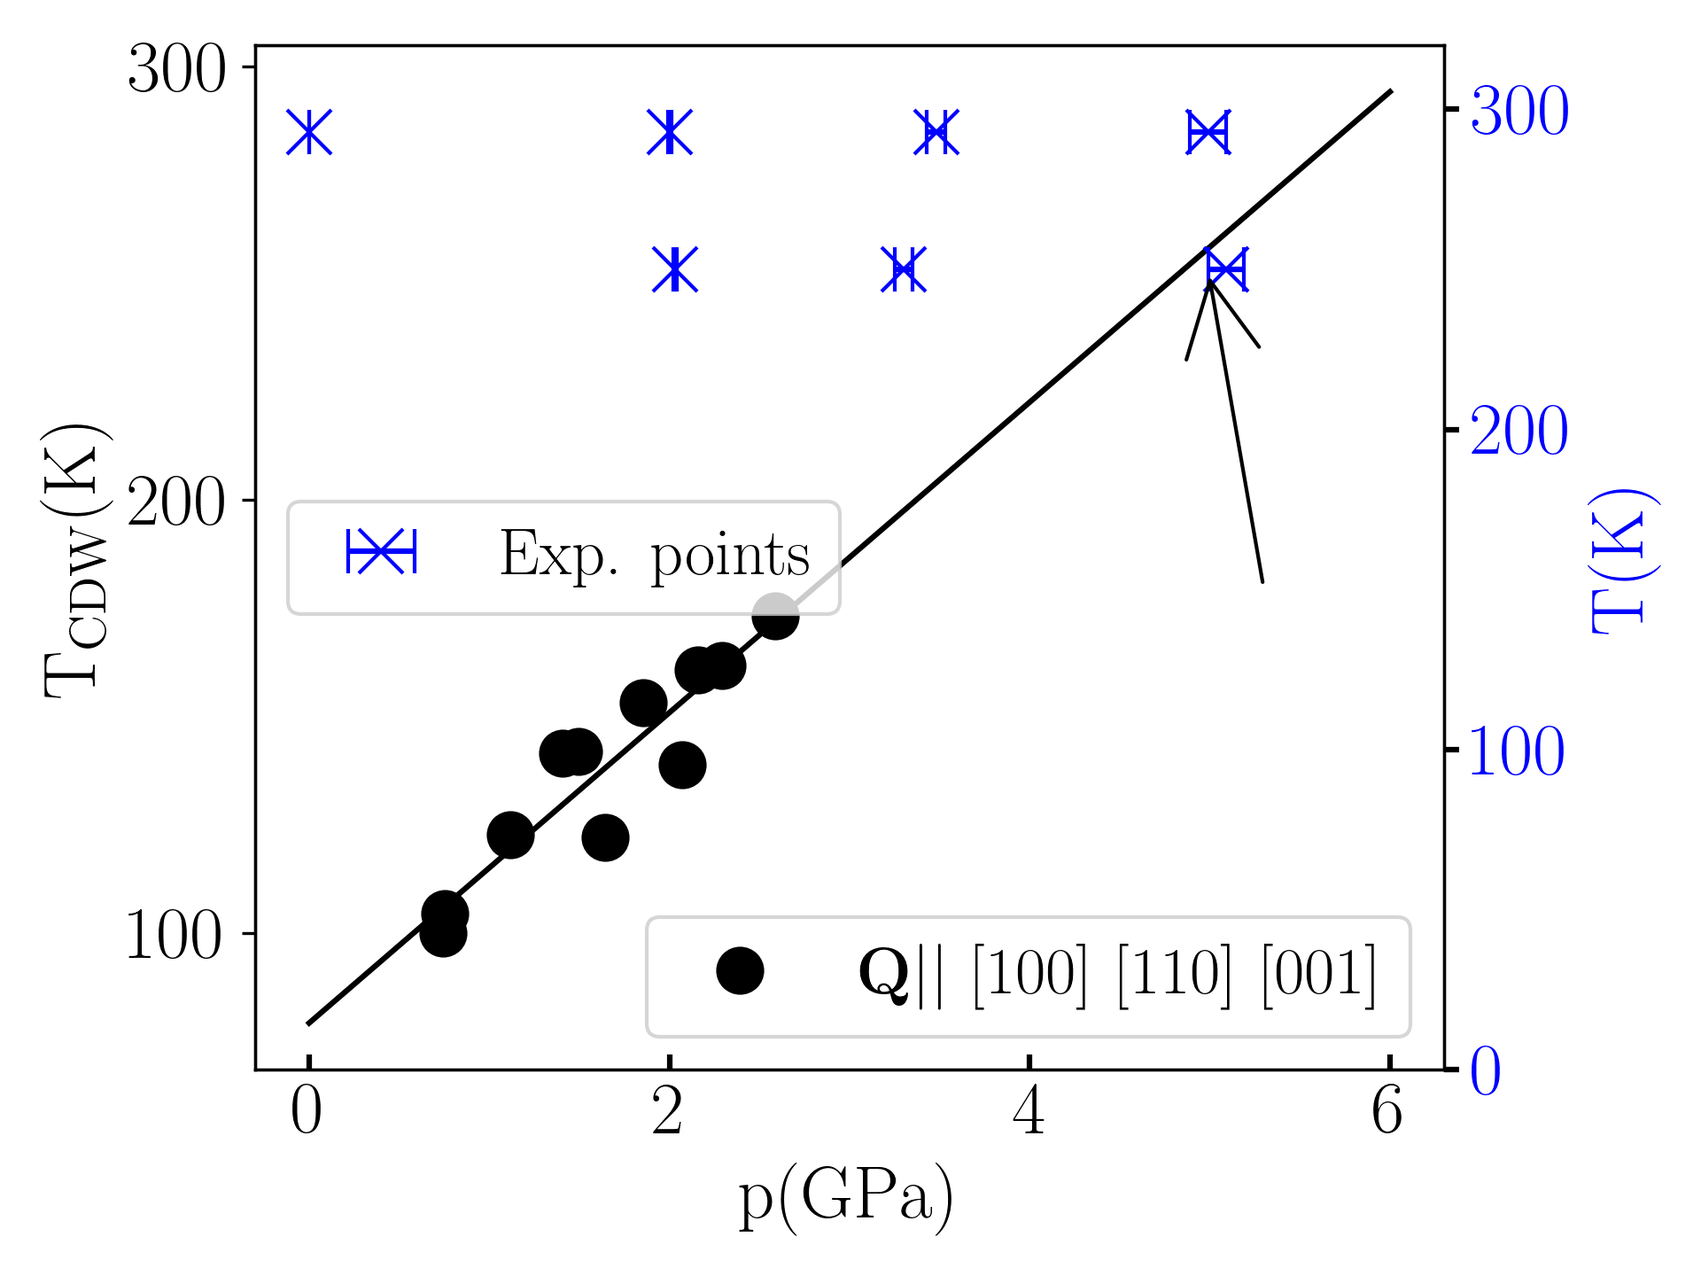
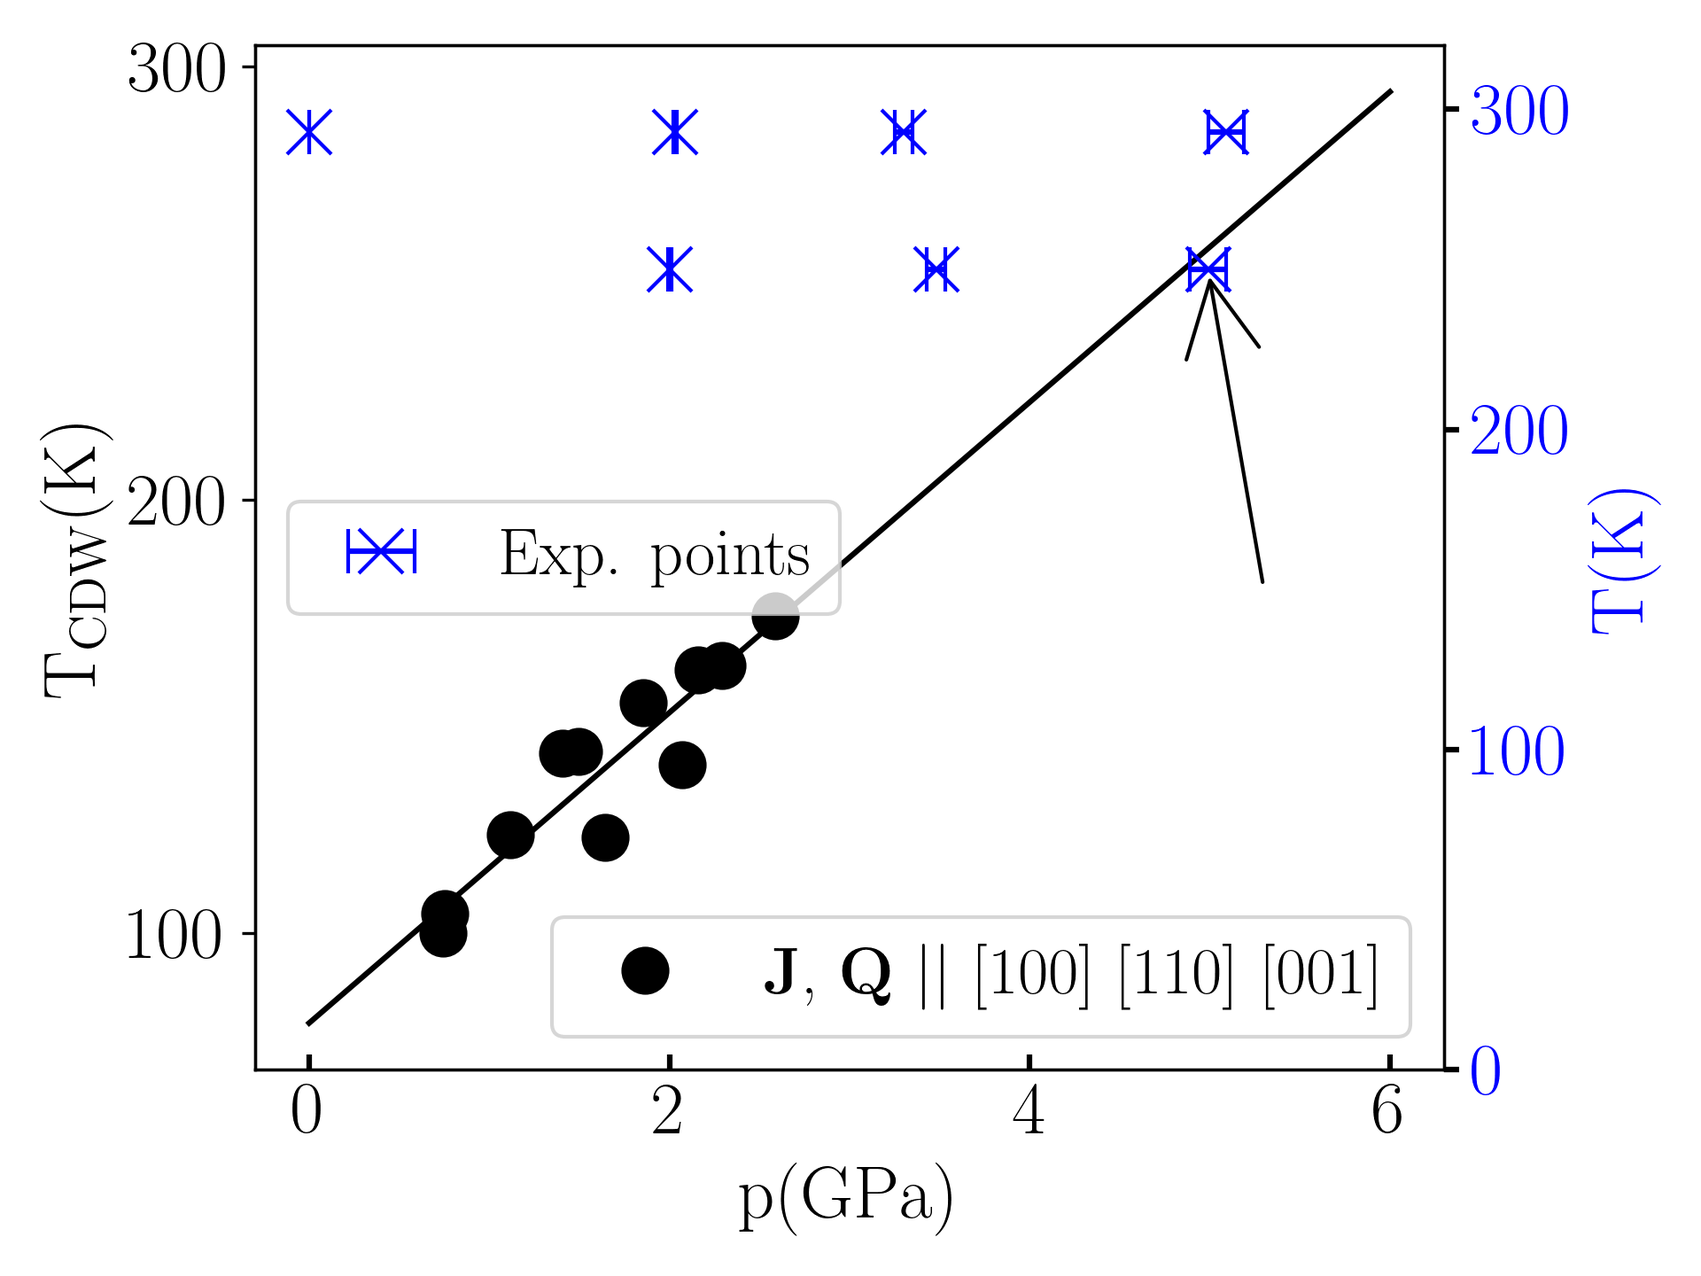
DAC (CDW) part finished. Only FPLO part left. maybe change image resolution??

diff --git a/EuGa2Al2/structure_investigation.py b/EuGa2Al2/structure_investigation.py
@@ -115,23 +115,23 @@ def main():
     # plt.savefig("euga2al2_refinement_crystal4", dpi=300)
     # plt.show()
 
-    # # # 1c
-    plt.subplots(figsize=(10, 8))
-    plt.errorbar(sinlambda1c, obs1c, yerr=sigma1c, ls='', marker='x', capsize=4.0, c='k', label='Observed')
-    plt.plot(sinlambda1c, cal1c, marker='.', c='r', ls='', label='Calculated', markersize=10)
-    plt.plot(sinlambda1c, abs(cal1c - obs1c) - np.max(obs1c) / n, marker='.', c='b', ls='', label='Difference', markersize=10)
-    plt.plot(np.linspace(0.05, np.max(sinlambda1c) +0.05, 1000), - np.max(obs1c) / n* np.ones(1000), c='b', linewidth=0.5, markersize=10)
-    plt.xlim(0.1, np.max(sinlambda1c)+0.025)
-    plt.text(x=0.85, y=400000, s=r'R$_f=4.367$', fontsize=25)
-    plt.text(x=0.5, y=700000, s=r'EuGa$_2$Al$_2$', fontsize=30, fontstyle='oblique')
-    plt.ylabel(r'Integrated intensities (arb. units)', fontsize=25)
-    plt.tick_params(axis='y', labelsize=20, direction='in')
-    plt.tick_params(axis='x', labelsize=22, direction='in')
-    plt.xlabel(r'$\frac{\sin(\theta)}{\lambda}$(Å$^{-1}$)', fontsize=25)
-    plt.yticks([0, 200000, 400000, 600000, 800000])
-    plt.legend(fontsize=25)
-    plt.savefig("euga2al2_refinement_crystal1", dpi=300)
-    plt.show()
+    # # # # 1c
+    # plt.subplots(figsize=(10, 8))
+    # plt.errorbar(sinlambda1c, obs1c, yerr=sigma1c, ls='', marker='x', capsize=4.0, c='k', label='Observed')
+    # plt.plot(sinlambda1c, cal1c, marker='.', c='r', ls='', label='Calculated', markersize=10)
+    # plt.plot(sinlambda1c, abs(cal1c - obs1c) - np.max(obs1c) / n, marker='.', c='b', ls='', label='Difference', markersize=10)
+    # plt.plot(np.linspace(0.05, np.max(sinlambda1c) +0.05, 1000), - np.max(obs1c) / n* np.ones(1000), c='b', linewidth=0.5, markersize=10)
+    # plt.xlim(0.1, np.max(sinlambda1c)+0.025)
+    # plt.text(x=0.85, y=400000, s=r'R$_f=4.367$', fontsize=25)
+    # plt.text(x=0.5, y=700000, s=r'EuGa$_2$Al$_2$', fontsize=30, fontstyle='oblique')
+    # plt.ylabel(r'Integrated intensities (arb. units)', fontsize=25)
+    # plt.tick_params(axis='y', labelsize=20, direction='in')
+    # plt.tick_params(axis='x', labelsize=22, direction='in')
+    # plt.xlabel(r'$\frac{\sin(\theta)}{\lambda}$(Å$^{-1}$)', fontsize=25)
+    # plt.yticks([0, 200000, 400000, 600000, 800000])
+    # plt.legend(fontsize=25)
+    # plt.savefig("euga2al2_refinement_crystal1", dpi=300)
+    # plt.show()
     # # 3b2
     # plt.errorbar(sinlambda3b2, obs3b2, yerr=sigma3b2, ls='', marker='x', capsize=1.0, c='k', label='Observed')
     # plt.plot(sinlambda3b2, cal3b2, marker='.', c='tab:red', ls='', label='Calculated')
@@ -158,16 +158,16 @@ def main():
     # # plt.savefig('EuGa2Al2_T_refinements.svg')
 
 
-    # D12, D22, Theta = [],[],[]
-    # dD12, dD22, dTheta = [],[],[]
-    # """STAVINOAH STUFF"""
-    # for i in range(0,4):
-    #     D12.append(stavinoah(z[i], dz[i], c=c[i], a=a[i], da=da[i], dc=dc[i], compound='EuGa2Al2', sample='1a [i]')[0])
-    #     dD12.append(stavinoah(z[i], dz[i], c=c[i], a=a[i], da=da[i], dc=dc[i], compound='EuGa2Al2', sample='1a [i]')[1])
-    #     D22.append(stavinoah(z[i], dz[i], c=c[i], a=a[i], da=da[i], dc=dc[i], compound='EuGa2Al2', sample='1a [i]')[2])
-    #     dD22.append(stavinoah(z[i], dz[i], c=c[i], a=a[i], da=da[i], dc=dc[i], compound='EuGa2Al2', sample='1a [i]')[3])
-    #     Theta.append(stavinoah(z[i], dz[i], c=c[i], a=a[i], da=da[i], dc=dc[i], compound='EuGa2Al2', sample='1a [i]')[4])
-    #     dTheta.append(stavinoah(z[i], dz[i], c=c[i], a=a[i], da=da[i], dc=dc[i], compound='EuGa2Al2', sample='1a [i]')[5])
+    D12, D22, Theta = [],[],[]
+    dD12, dD22, dTheta = [],[],[]
+    """STAVINOAH STUFF"""
+    for i in range(0,4):
+        D12.append(stavinoah(z[i], dz[i], c=c[i], a=a[i], da=da[i], dc=dc[i], compound='EuGa2Al2', sample='1a [i]')[0])
+        dD12.append(stavinoah(z[i], dz[i], c=c[i], a=a[i], da=da[i], dc=dc[i], compound='EuGa2Al2', sample='1a [i]')[1])
+        D22.append(stavinoah(z[i], dz[i], c=c[i], a=a[i], da=da[i], dc=dc[i], compound='EuGa2Al2', sample='1a [i]')[2])
+        dD22.append(stavinoah(z[i], dz[i], c=c[i], a=a[i], da=da[i], dc=dc[i], compound='EuGa2Al2', sample='1a [i]')[3])
+        Theta.append(stavinoah(z[i], dz[i], c=c[i], a=a[i], da=da[i], dc=dc[i], compound='EuGa2Al2', sample='1a [i]')[4])
+        dTheta.append(stavinoah(z[i], dz[i], c=c[i], a=a[i], da=da[i], dc=dc[i], compound='EuGa2Al2', sample='1a [i]')[5])
     # stavinoah(z[0], dz[0], a=a[0], da=da[0], c=c[0], dc=dc[0], sample="100K")
     # stavinoah(z[1], dz[1], a=a[1], da=da[1], c=c[1], dc=dc[1], sample="150K")
     # stavinoah(z[2], dz[2], a=a[2], da=da[2], c=c[2], dc=dc[2], sample="200K")
@@ -240,41 +240,41 @@ def main():
     # plt.tight_layout()
     # plt.savefig("stavinoah1_euga2al2_2_Version2.jpg", dpi=300)
     #
-    # fig, ax1 = plt.subplots()
-    # fig.subplots_adjust(right=0.75)
-    # tkw = dict(size=4, width=1.5)
-    # ax1.set_ylim(0.3825, 0.395)
-    # ax1.set_yticks([])
-    # ax1.set_xlabel(r'$T$(K)', fontsize=30)
-    # # ax1.set_ylabel(r'$z$', color='r', fontsize=30)
-    # m, sigma_m, dm, t, sigma_t, dt = lin_reg(T, z, dy=np.zeros(4), sigma_y=dz, plot=False)
-    # ax1.plot(np.linspace(80, 310, 1000), m * np.linspace(80, 310, 1000) + t, lw=1.5, c='r', ls='-')
-    # print("z: m={}+-{}, t={}+-{}".format(m, sigma_m, t, sigma_t))
-    # ax1.errorbar(T, z, yerr=dz, color='r', linestyle='', lw=0.8, marker='o', markersize=12, capsize=4, label=r'$z$')
-    # # ax1.tick_params(axis='y', labelcolor='r', labelsize=30)
-    # # ax1.set_xticks([100, 180, 200, 293])
-    # ax1.tick_params(axis='x', labelsize=30, direction='in', **tkw)
-    # # ax1.locator_params(axis='y', nbins=3)
-    # ax1.legend(fontsize=27, loc='upper left')
-    # # Adding Twin Axes
-    # ax2 = ax1.twinx()
-    # # ax2.set_ylabel('Temperat', color='g')
-    # m, sigma_m, dm, t, sigma_t, dt = lin_reg(T, Theta, dy=np.zeros(4), sigma_y=dTheta, plot=False)
-    # ax2.plot(np.linspace(80, 310, 1000), m * np.linspace(80, 310, 1000) + t, lw=1.5, c='c', ls='-')
-    # print("theta: m={}+-{}, t={}+-{}".format(m, sigma_m, t, sigma_t))
-    # ax2.errorbar(T, Theta, yerr=dTheta, color='c', linestyle='', lw=0.8, marker='s', markersize=12, capsize=4, label=r'$\theta$')
-    # # ax2.set_ylabel(r'$\theta$(°)', color='c', fontsize=30)
-    # # ax2.tick_params(axis='y', labelcolor='c', labelsize=30, **tkw)
-    # # ax2.text(x=255, y=111.525, s=r'(c)', style='oblique', fontsize=27)
-    # # ax2.locator_params(axis='y', nbins=3)
-    # ax2.legend(fontsize=27, loc='upper right')
-    # ax2.set_yticks([])
-    # plt.tight_layout()
-    # ax2.set_ylim(110.7, 114.4)
+    fig, ax1 = plt.subplots()
+    fig.subplots_adjust(right=0.75)
+    tkw = dict(size=4, width=1.5)
+    ax1.set_ylim(0.3825, 0.395)
+    ax1.set_yticks([])
+    ax1.set_xlabel(r'$T$(K)', fontsize=30)
+    # ax1.set_ylabel(r'$z$', color='r', fontsize=30)
+    m, sigma_m, dm, t, sigma_t, dt = lin_reg(T, z, dy=np.zeros(4), sigma_y=dz, plot=False)
+    ax1.plot(np.linspace(80, 310, 1000), m * np.linspace(80, 310, 1000) + t, lw=1.5, c='r', ls='-')
+    print("z: m={}+-{}, t={}+-{}".format(m, sigma_m, t, sigma_t))
+    ax1.errorbar(T, z, yerr=dz, color='r', linestyle='', lw=0.8, marker='o', markersize=12, capsize=4, label=r'$z$')
+    # ax1.tick_params(axis='y', labelcolor='r', labelsize=30)
+    # ax1.set_xticks([100, 180, 200, 293])
+    ax1.tick_params(axis='x', labelsize=30, direction='in', **tkw)
+    # ax1.locator_params(axis='y', nbins=3)
+    ax1.legend(fontsize=27, loc='upper left')
+    # Adding Twin Axes
+    ax2 = ax1.twinx()
+    # ax2.set_ylabel('Temperat', color='g')
+    m, sigma_m, dm, t, sigma_t, dt = lin_reg(T, Theta, dy=np.zeros(4), sigma_y=dTheta, plot=False)
+    ax2.plot(np.linspace(80, 310, 1000), m * np.linspace(80, 310, 1000) + t, lw=1.5, c='c', ls='-')
+    print("theta: m={}+-{}, t={}+-{}".format(m, sigma_m, t, sigma_t))
+    ax2.errorbar(T, Theta, yerr=dTheta, color='c', linestyle='', lw=0.8, marker='s', markersize=12, capsize=4, label=r'$\theta$')
+    # ax2.set_ylabel(r'$\theta$(°)', color='c', fontsize=30)
+    # ax2.tick_params(axis='y', labelcolor='c', labelsize=30, **tkw)
+    # ax2.text(x=255, y=111.525, s=r'(c)', style='oblique', fontsize=27)
+    # ax2.locator_params(axis='y', nbins=3)
+    ax2.legend(fontsize=27, loc='upper right')
+    ax2.set_yticks([])
+    plt.tight_layout()
+    ax2.set_ylim(110.7, 114.4)
     # plt.savefig("stavinoah1_euga2al2_3_Version2.jpg", dpi=300)
-    # # m, sigma_m, dm, t, sigma_t, dt = lin_reg(T, V, dy=np.zeros(4), sigma_y=dV, plot=False)
-    # # print("V: m={}+-{}, t={}+-{}".format(m, sigma_m, t, sigma_t))
-    # plt.show()
+    # m, sigma_m, dm, t, sigma_t, dt = lin_reg(T, V, dy=np.zeros(4), sigma_y=dV, plot=False)
+    # print("V: m={}+-{}, t={}+-{}".format(m, sigma_m, t, sigma_t))
+    plt.show()
 
 
     """

diff --git a/Simulation/CDW/main.py b/Simulation/CDW/main.py
@@ -115,7 +115,7 @@ def plotallthisshit(k2d, l2d, I, h, scatterfactor):
 
 def main():
     print(__doc__)
-    l_boundary, k_boundary = 1, 1
+    l_boundary, k_boundary = 2, 2
     h = -3
     # n, k2d, l2d, h = kspacecreator(boundary, h) # for normal plot
     ############################################ # For CDW Plot
@@ -218,7 +218,7 @@ def main():
     # plt.scatter(z_Ga1_T, np.ones(11) * 0.5, c='g', marker='.')
     # plt.scatter(z_Ga2_T, np.ones(11) * 0.5, c='b', marker='.')
     # #################################################################
-    z_ampl = -0.12 # -0.08
+    z_ampl = np.array([-0.12, -0.01, -0.01, -0.01, -0.01, -0.01]) # -0.08
     q_cdw = 1/10  # in r.l.u.
     print("CDW Modulation A*sin(q_cdw*z*2*pi):")
     print("q_cdw={}, A={}".format(q_cdw, z_ampl))
@@ -228,9 +228,23 @@ def main():
     for i in range(1, 41):
         z.append((i/4 - 1/8) + 1/8*(-1)**(i+1)+zp*(-1)**i)
         # Modulation 1: (-1)**i * z_ampl * np.sin(2*np.pi* q_cdw * z)
+        #dz.append((-1)**i * z_ampl * (np.sin(2*np.pi*q_cdw *  (i/4 - 1/8) + 1/8*(-1)**(i+1)+zp*(-1)**i)))
+        # weird.append((i/4 + 1/8 + 1/8 * (-1)**(i+1)))
+
         # Modulation 2: fourier series with q_cdw=0.10
-        dz.append((-1)**i * z_ampl * (np.sin(2*np.pi*q_cdw *  (i/4 - 1/8) + 1/8*(-1)**(i+1)+zp*(-1)**i)))
-        weird.append((i/4 + 1/8 + 1/8 * (-1)**(i+1)))
+        dz.append((-1)**i * z_ampl[0] * ( np.cos(2*np.pi*q_cdw *  (i/4 - 1/8) + 1/8*(-1)**(i+1)+zp*(-1)**i) +  np.sin(2*np.pi*q_cdw *  (i/4 - 1/8) + 1/8*(-1)**(i+1)+zp*(-1)**i)) +
+                  (-1)**i * z_ampl[1] * ( np.cos(2*2*np.pi*q_cdw *  (i/4 - 1/8) + 1/8*(-1)**(i+1)+zp*(-1)**i) +  np.sin(2*2*np.pi*q_cdw *  (i/4 - 1/8) + 1/8*(-1)**(i+1)+zp*(-1)**i)) +
+                  (-1)**i * z_ampl[2] * ( np.cos(2*3*np.pi*q_cdw *  (i/4 - 1/8) + 1/8*(-1)**(i+1)+zp*(-1)**i) +  np.sin(2*3*np.pi*q_cdw *  (i/4 - 1/8) + 1/8*(-1)**(i+1)+zp*(-1)**i)) +
+                  (-1) ** i * z_ampl[3] * (np.cos(4*
+            2 * np.pi * q_cdw * (i / 4 - 1 / 8) + 1 / 8 * (-1) ** (i + 1) + zp * (-1) ** i) + np.sin(4*
+            2 * np.pi * q_cdw * (i / 4 - 1 / 8) + 1 / 8 * (-1) ** (i + 1) + zp * (-1) ** i)) +
+                  (-1) ** i * z_ampl[4] * (np.cos(
+            5 * 2 * np.pi * q_cdw * (i / 4 - 1 / 8) + 1 / 8 * (-1) ** (i + 1) + zp * (-1) ** i) + np.sin(
+            5 * 2 * np.pi * q_cdw * (i / 4 - 1 / 8) + 1 / 8 * (-1) ** (i + 1) + zp * (-1) ** i)) +
+                  (-1) ** i * z_ampl[5] * (np.cos(
+            6 * 3 * np.pi * q_cdw * (i / 4 - 1 / 8) + 1 / 8 * (-1) ** (i + 1) + zp * (-1) ** i) + np.sin(
+            6 * 3 * np.pi * q_cdw * (i / 4 - 1 / 8) + 1 / 8 * (-1) ** (i + 1) + zp * (-1) ** i))
+                  )
     # print("input for sin from marein: {}".format(weird))
     print("Gallium z-positions and deviations dz:")
     print("z={}".format(np.round(z, 2)), "# z={}".format(len(z)),
@@ -238,11 +252,11 @@ def main():
           "z+dz={}".format(np.asarray(z) + np.asarray(dz))
           )
     mod = np.asarray(z) + np.asarray(dz) # modulated ga_z positions
-    fig, axs = plt.subplots(4, figsize=(12,7))
+    fig, axs = plt.subplots(2, 2, figsize=(10,5))
 
     # fig.suptitle(r'CDW modulation simulation for $EuGa_2Al_2$')
-    axs[0].scatter(np.asarray(z) + np.asarray(dz), np.ones(40) * 0.5, c='r', marker='.', label='Modulated')
-    axs[0].scatter(np.asarray(z), np.ones(40) * 0.5, c='k', marker='.', label='Unmodulated')
+    axs[0, 0].scatter(np.asarray(z) + np.asarray(dz), np.ones(40) * 0.5, c='r', marker='.', label='Modulated')
+    axs[0, 0].scatter(np.asarray(z), np.ones(40) * 0.5, c='k', marker='.', label='Unmodulated')
 
     # plt.scatter(z_Ga1_T_mod, np.ones(10) * 0.5, c='r', marker='.')
     # plt.scatter(z_Ga2_mod, np.ones(10) * 0.5, c='k', marker='.', label='Wyckoff 4e(2)')
@@ -251,14 +265,14 @@ def main():
     every_1st, every_2nd, every_3rd, every_4th = mod[0::4], mod[1::4], mod[2::4], mod[3::4] # transform 40 array into 4*10 arrays
     #print("every_1st={}".format(every_1st), "every_2nd={}".format(every_2nd), "every_3rd={}".format(every_3rd),
     #      "every_4th={}".format(every_4th))
-    axs[0].set_xlim(0, 10)
-    axs[0].set_ylim(0.48, 0.52)
-    axs[0].legend(fontsize=15)
-    axs[0].set_xticks(np.arange(0, 11, 1))
-    axs[0].tick_params(axis='x', labelsize=15, direction='in')
-    axs[0].tick_params(direction='in')
-    axs[0].set_yticks([])
-    axs[0].set_xlabel(r"$z$", fontsize=15)
+    axs[0, 0].set_xlim(0, 10)
+    axs[0, 0].set_ylim(0.48, 0.52)
+    axs[0, 0].legend(fontsize=15)
+    axs[0, 0].set_xticks(np.arange(0, 11, 1))
+    axs[0, 0].tick_params(axis='x', labelsize=15, direction='in')
+    axs[0, 0].tick_params(direction='in')
+    axs[0, 0].set_yticks([])
+    axs[0, 0].set_xlabel(r"$z$", fontsize=15)
     
     """ Final Atomic vector positions """
     Eu, Eu_T = np.array([x_Eu, y_Eu, z_Eu]), np.array([x_Eu_T, y_Eu_T, z_Eu_T])
@@ -329,33 +343,33 @@ def main():
     # 2d scatter plot
     # print("k2d={}, l2d={}".format(k2d, l2d))
     # plot whole space:
-    axs[3].scatter(k2d, l2d, s=I*scatterfactor, linewidth=0.05, c='k')
-    axs[3].set_ylabel(r"L (r.l.u.)", fontsize=15)
-    axs[3].set_xlabel(r"K (r.l.u.)", fontsize=15)
-    axs[3].tick_params(axis='x', labelsize=15, direction='in')
-    axs[3].tick_params(axis='y', labelsize=15, direction='in')
+    axs[1,0].scatter(k2d, l2d, s=I*scatterfactor, linewidth=0.05, c='k')
+    axs[1,0].set_ylabel(r"L (r.l.u.)", fontsize=15)
+    axs[1,0].set_xlabel(r"K (r.l.u.)", fontsize=15)
+    axs[1,0].tick_params(axis='x', labelsize=15, direction='in')
+    axs[1,0].tick_params(axis='y', labelsize=15, direction='in')
     readout = l_boundary * 10 # readout: l_k_boundary * 10, centers around desired [HKL] peak
     # print("I_min/I_max = {}".format(np.min(I)/np.max(I)))
     # Centered peak
-    axs[1].set_xlabel(r'L (r.l.u.)', fontsize=15)
-    axs[1].set_ylabel(r'K (r.l.u.)', fontsize=15)
-    axs[1].tick_params(axis='x', labelsize=15, direction='in')
-    axs[1].tick_params(axis='y', labelsize=15, direction='in')
-    # axs[1].set_xlim(k0-k_boundary-0.5, k0+k_boundary+0.5)
-    axs[1].set_ylim(k0 - k_boundary, k0 + k_boundary)
-    axs[1].set_xlim(l0 - l_boundary, l0 + l_boundary)
-    axs[1].scatter(l2d[:, readout], k2d[:, readout], s=I[:, readout]*scatterfactor, linewidth=0.05, c='k',
-                   label='[{}{}L]'.format(h, k0))
-    axs[1].legend(fontsize=15)
+    axs[0,1].set_xlabel(r'L (r.l.u.)', fontsize=15)
+    axs[0,1].set_ylabel(r'K (r.l.u.)', fontsize=15)
+    axs[0,1].tick_params(axis='x', labelsize=15, direction='in')
+    axs[0,1].tick_params(axis='y', labelsize=15, direction='in')
+    # axs[0,1].set_xlim(k0-k_boundary-0.5, k0+k_boundary+0.5)
+    axs[0,1].set_ylim(k0 - k_boundary, k0 + k_boundary)
+    axs[0,1].set_xlim(l0 - l_boundary, l0 + l_boundary)
+    axs[0,1].scatter(l2d[:, readout], k2d[:, readout], s=I[:, readout]*scatterfactor, linewidth=0.05, c='k',
+                   label='[{}KL]'.format(h))
+    axs[0,1].legend(fontsize=15)
     # print("single peak: k={}, l={}".format(k2d[:, readout], l2d[:, readout]))
     # Projected intensity of desired [HKL]-peak
-    axs[2].plot(l2d[:, readout], I[:, readout] / np.max(I[:, readout]), marker='x', c='k', ls='--', lw=0.5, ms=5, label='[{}{}L]'.format(h, k0))
-    axs[2].set_xlim(l0 - l_boundary, l0 + l_boundary)
-    axs[2].set_xlabel(r"L (r.l.u.)", fontsize=15)
-    axs[2].set_ylabel(r"Intensity (Rel.)", fontsize=15)
-    axs[2].tick_params(axis='x', labelsize=15, direction='in')
-    axs[2].tick_params(axis='y', labelsize=15, direction='in')
-    axs[2].legend(fontsize=15)
+    axs[1,1].plot(l2d[:, readout], I[:, readout] / np.max(I[:, readout]), marker='x', c='k', ls='--', lw=0.5, ms=3, label='[{}KL]'.format(h))
+    axs[1,1].set_xlim(l0 - l_boundary, l0 + l_boundary)
+    axs[1,1].set_xlabel(r"L (r.l.u.)", fontsize=15)
+    axs[1,1].set_ylabel(r"Intensity (Rel.)", fontsize=15)
+    axs[1,1].tick_params(axis='x', labelsize=15, direction='in')
+    axs[1,1].tick_params(axis='y', labelsize=15, direction='in')
+    axs[1,1].legend(fontsize=15)
     print("I_max = {}".format(np.sort(I[:, readout])[-1]))
     print("(I_max - I_[max-1])/I_max = {}".format((np.sort(I[:, readout])[-1] - np.sort(I[:, readout])[-2]) / np.sort(I[:, readout])[-1]))
     # # 3d surface and scatter plot
@@ -377,7 +391,11 @@ def main():
     #     #           )
     #     # plt.show()
     #################################################
-    # plt.savefig('CDW_sim_HK0L0={}{}{}'.format(h, k0, l0), dpi=300)
+    plt.subplots_adjust(
+                        wspace=0.2,
+                        hspace=0.4)
+    plt.savefig('CDW_sim_HK0L0_FOURIER={}{}{}'.format(h, k0, l0), dpi=300)
+
     plt.show()
 
 

diff --git a/EuGa2Al2/DAC.py b/EuGa2Al2/DAC.py
@@ -38,35 +38,34 @@ dp_exp = np.array([0, 0.01, 0.01, 0.05, 0.05, 0.1, 0.1])
 p_exp293 = np.array([0, 2.03, 3.30, 5.09])
 p_exp250 = np.array([2.00, 3.48, 4.99])
 p_exp2 = np.array([2.03, 5.09, 4.99]) # z-refinements that succeeded
-# fig, ax1 = plt.subplots()
-# fig.subplots_adjust(right=0.8)
-# tkw = dict(size=4, width=1.5)
-#
-# ax1.set_xlabel(r'p(GPa)', fontsize=20)
-# ax1.set_ylabel(r'T$_{\mathrm{CDW}}$(K)', color='k', fontsize=20)
-# ax1.plot(p_CDW, T_CDW, color='k', linestyle='', lw=0.8, marker='o', markersize=12, label=r'$\mathbf{Q}||$ [100] [110] [001]')
-# m, sigma_m , dm, t, sigma_t, dt = lin_reg(p_CDW, T_CDW, sigma_y=np.ones(11), dy=np.ones(11), plot=False)
-# ax1.plot(np.linspace(0, 6, 500), m*np.linspace(0, 6, 500) + t, lw=1.5, c='k', ls='-')
-# print("T_CDW linear fit parameters: m={}+-{}, t={}+-{}".format(m, sigma_m, t, sigma_t))
-# ax1.tick_params(axis='y', labelcolor='k', labelsize=20)
-# # # ax1.set_xticks([100, 180, 200, 293])
-# ax1.locator_params(axis='y', nbins=4)
-# ax1.tick_params(axis='x', labelsize=20, direction='in', **tkw)
-# ax1.legend(fontsize=18 , loc='lower right'
-#            )
-# # Adding Twin Axes
-# ax2 = ax1.twinx()
-# ax2.errorbar(p_exp, T_exp, xerr=dp_exp, marker='x', markersize=12, capsize=6, ls='', label=r'Exp. points', c='b')
-# ax2.set_ylabel(r'T(K)', color='b', fontsize=20)
-# ax2.tick_params(axis='y', labelcolor='b', labelsize=20, **tkw)
-# ax2.annotate("", xy=(4.99, 250), xytext=(5.3, 150), fontsize=50,
-#   arrowprops=dict(arrowstyle="->"))
-# ax2.set_ylim(0, 320)
-# ax2.legend(fontsize=18, loc='center left'
-#                )
-# plt.tight_layout()
-# plt.savefig("CDW_DAC_comparison_linfit.png", dpi=300)
-# plt.show()
+fig, ax1 = plt.subplots()
+fig.subplots_adjust(right=0.8)
+tkw = dict(size=4, width=1.5)
+ax1.set_xlabel(r'p(GPa)', fontsize=20)
+ax1.set_ylabel(r'T$_{\mathrm{CDW}}$(K)', color='k', fontsize=20)
+ax1.plot(p_CDW, T_CDW, color='k', linestyle='', lw=0.8, marker='o', markersize=12, label=r'$\mathbf{J}$, $\mathbf{Q}$ $||$ [100] [110] [001]')
+m, sigma_m , dm, t, sigma_t, dt = lin_reg(p_CDW, T_CDW, sigma_y=np.ones(11), dy=np.ones(11), plot=False)
+ax1.plot(np.linspace(0, 6, 500), m*np.linspace(0, 6, 500) + t, lw=1.5, c='k', ls='-')
+print("T_CDW linear fit parameters: m={}+-{}, t={}+-{}".format(m, sigma_m, t, sigma_t))
+ax1.tick_params(axis='y', labelcolor='k', labelsize=20)
+# # ax1.set_xticks([100, 180, 200, 293])
+ax1.locator_params(axis='y', nbins=4)
+ax1.tick_params(axis='x', labelsize=20, direction='in', **tkw)
+ax1.legend(fontsize=18 , loc='lower right'
+           )
+# Adding Twin Axes
+ax2 = ax1.twinx()
+ax2.errorbar(p_exp, np.array([293, 293, 250, 293, 250, 293, 250]), xerr=dp_exp, marker='x', markersize=12, capsize=6, ls='', label=r'Exp. points', c='b')
+ax2.set_ylabel(r'T(K)', color='b', fontsize=20)
+ax2.tick_params(axis='y', labelcolor='b', labelsize=20, **tkw)
+ax2.annotate("", xy=(4.99, 250), xytext=(5.3, 150), fontsize=50,
+  arrowprops=dict(arrowstyle="->"))
+ax2.set_ylim(0, 320)
+ax2.legend(fontsize=18, loc='center left'
+               )
+plt.tight_layout()
+plt.savefig("CDW_DAC_comparison_linfit.jpg", dpi=500)
+plt.show()
 
 ######################################
 """DAC Pressure and Temperature data
